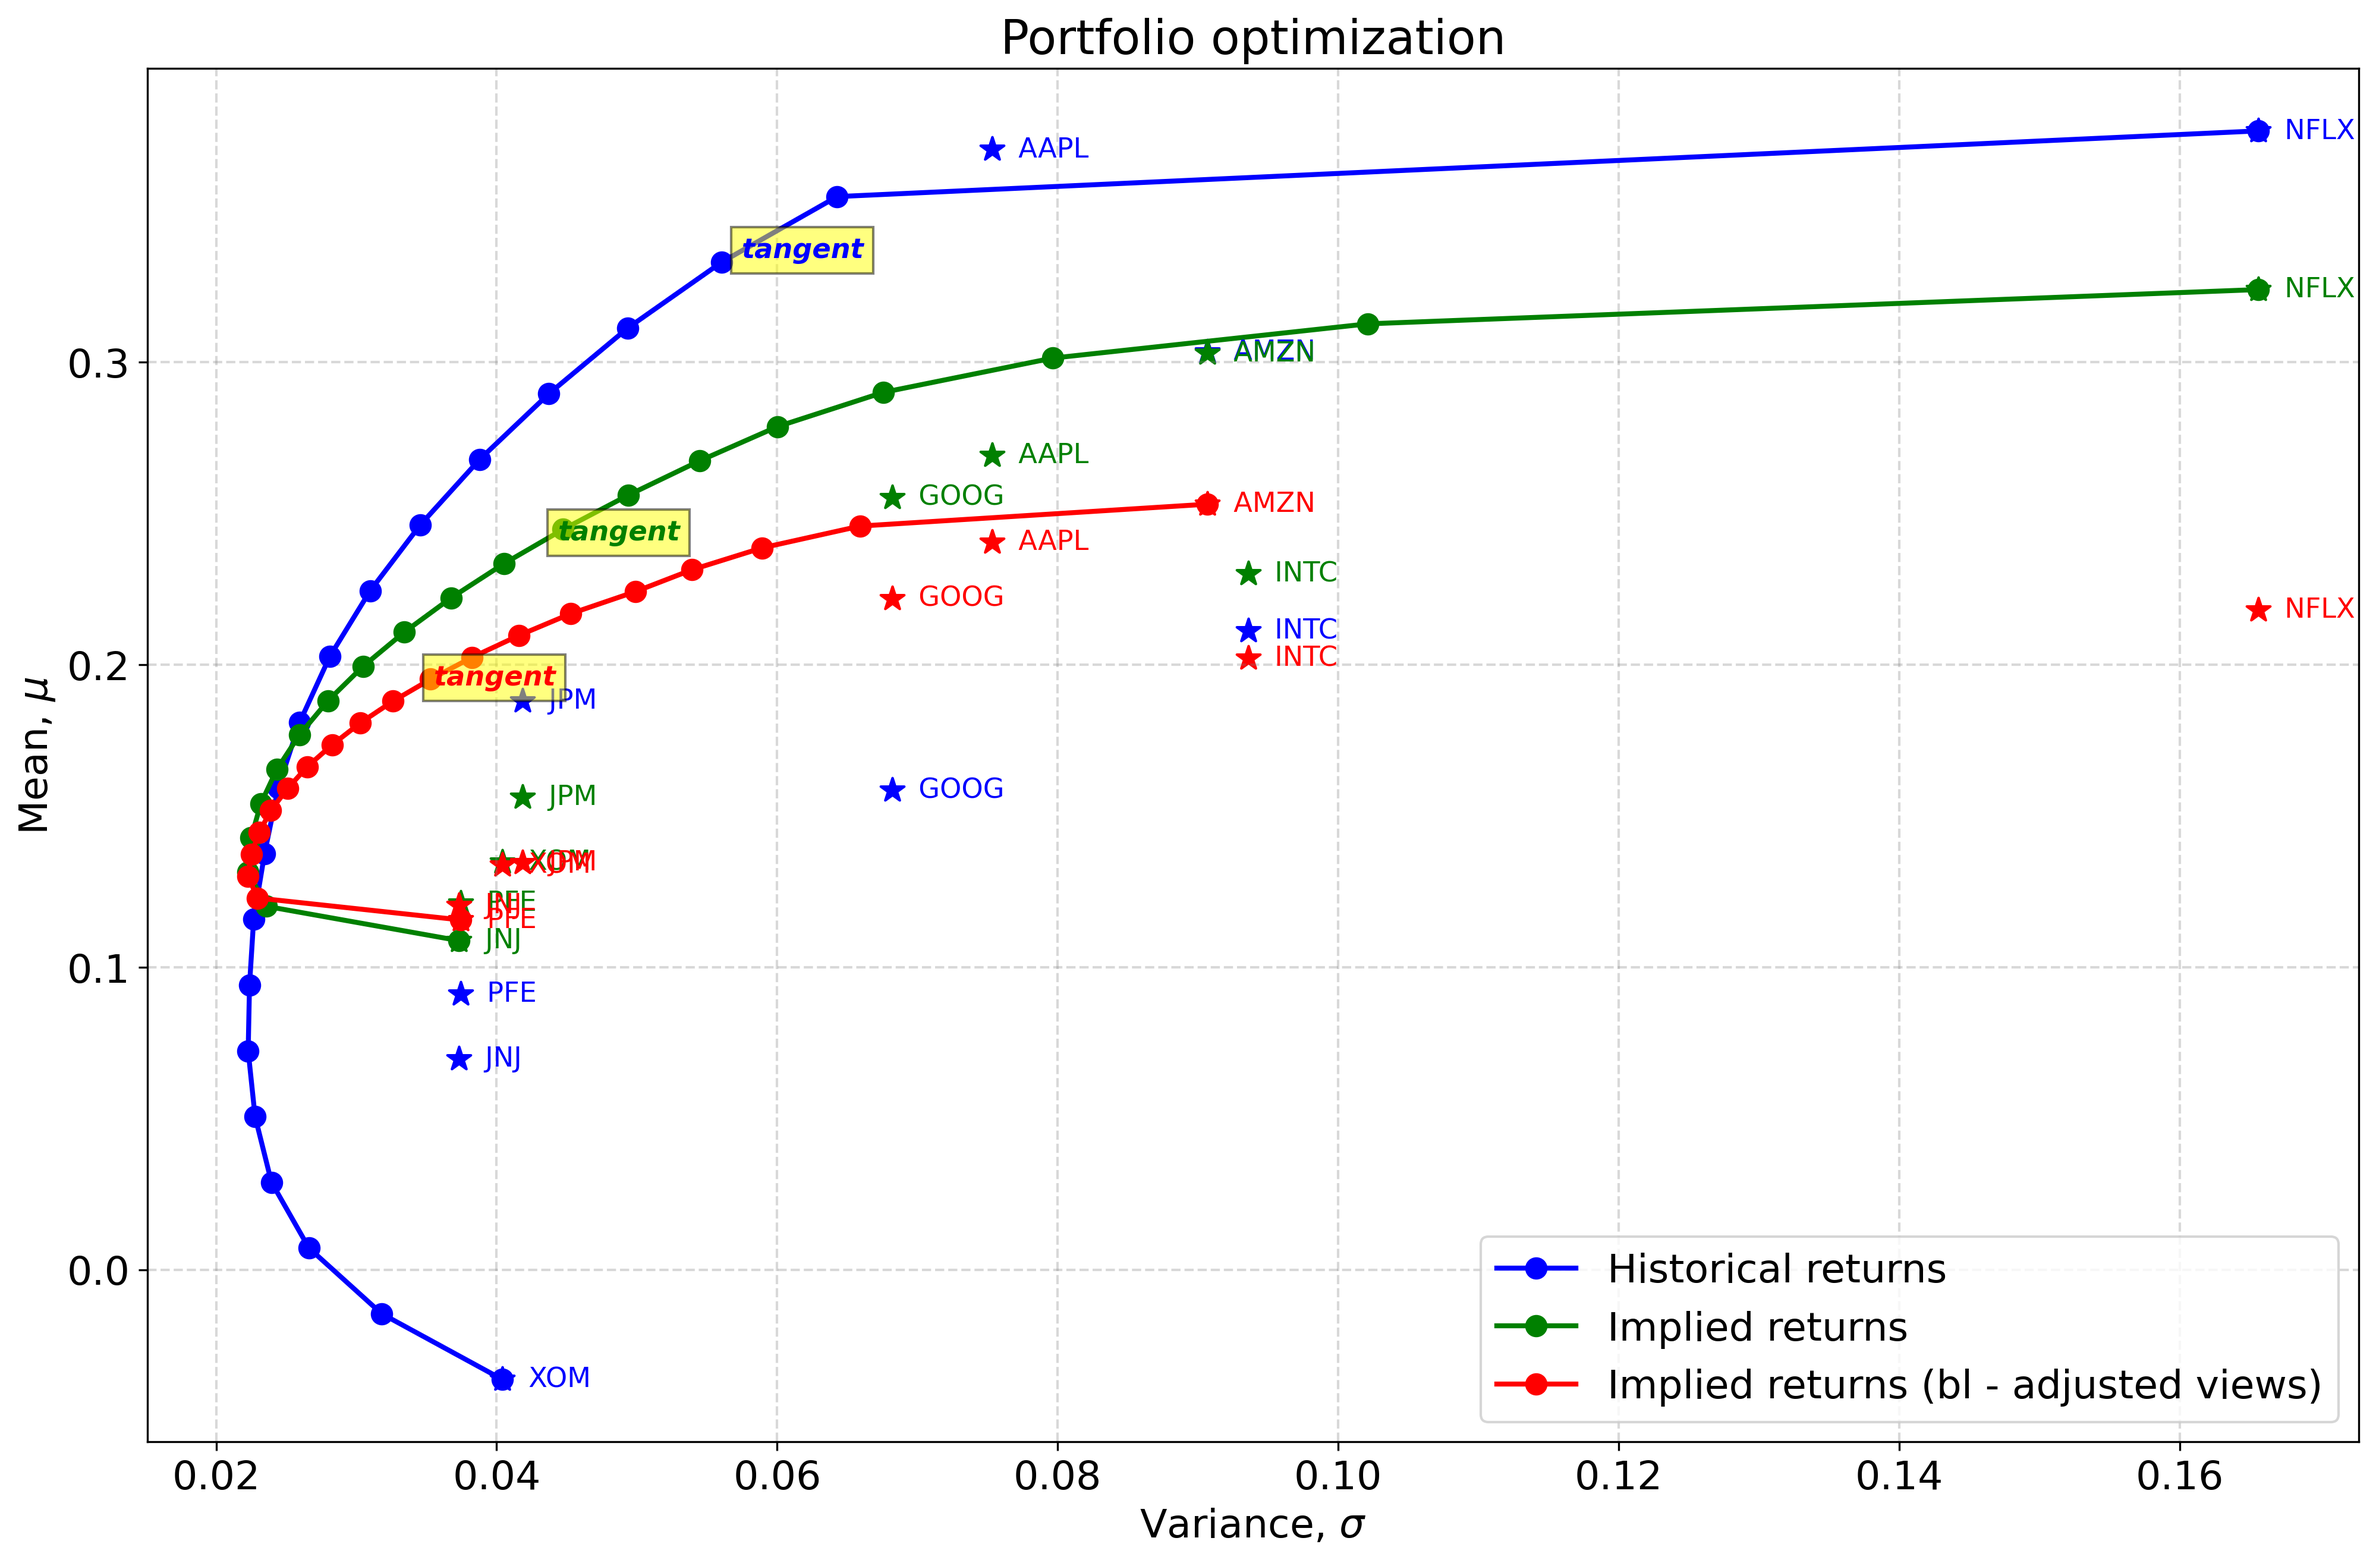
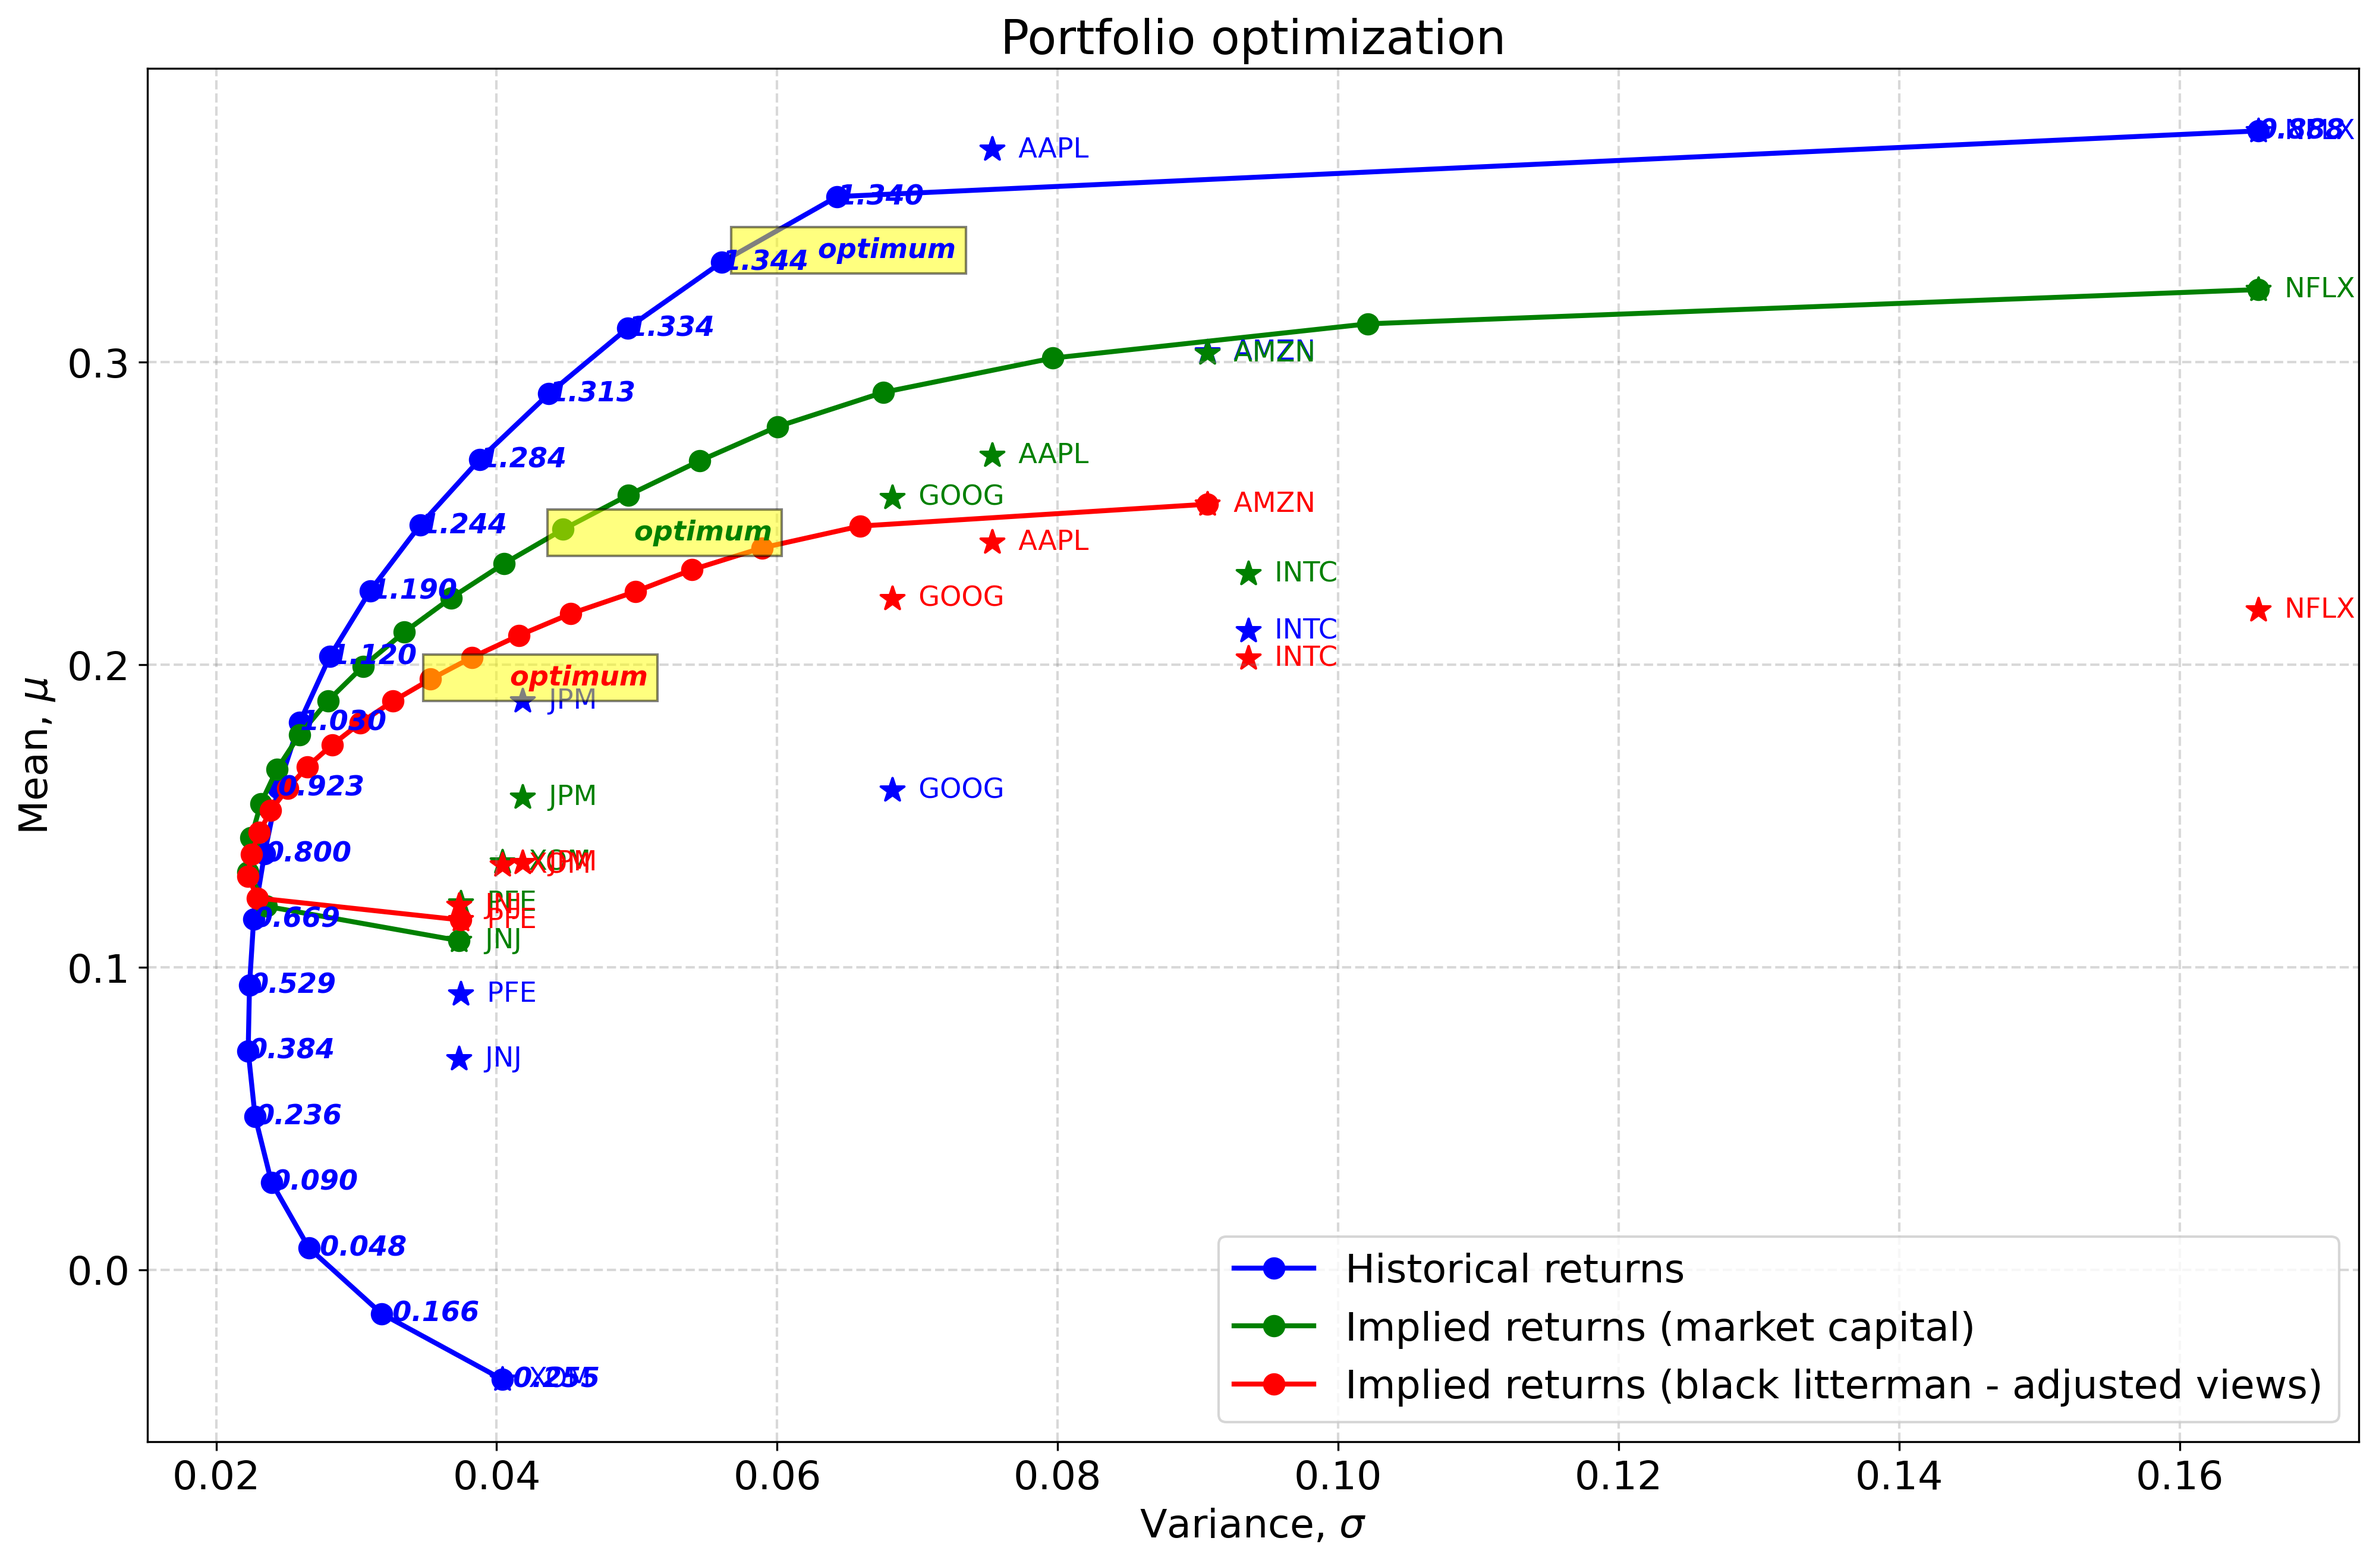
black_litterman.py

diff --git a/src/python/trading/black_litterman.py b/src/python/trading/black_litterman.py
@@ -242,8 +242,8 @@ if __name__ == "__main__":
         "colors": ["blue", "green", "red"],
         "labels": [
             "Historical returns",
-            "Implied returns",
-            "Implied returns (bl - adjusted views)",
+            "Implied returns (market capital)",
+            "Implied returns (black litterman - adjusted views)",
         ],
     }
     for i in range(len(plotdata["rets"])):
@@ -260,7 +260,7 @@ if __name__ == "__main__":
         plt.text(
             plotdata["frontier"][i]["tan_var"],
             plotdata["frontier"][i]["tan_mean"],
-            "tangent",
+            "        optimum",
             verticalalignment="center",
             color=plotdata["colors"][i],
             fontsize="x-small",
@@ -276,6 +276,21 @@ if __name__ == "__main__":
             markersize=8,
             linewidth=2,
             color=plotdata["colors"][i],
+        )
+
+    mean0 = plotdata["frontier"][0]["eff_mean"]
+    vari0 = plotdata["frontier"][0]["eff_var"]
+    for i in range(len(mean0)):
+        sharp = (mean0[i] - rf) / np.sqrt(vari0[i])
+        plt.text(
+            vari0[i],
+            mean0[i],
+            f"{sharp:.3f}",
+            verticalalignment="center",
+            color=plotdata["colors"][0],
+            fontsize="x-small",
+            fontweight="bold",
+            style="italic",
         )
 
     plt.title("Portfolio optimization")
